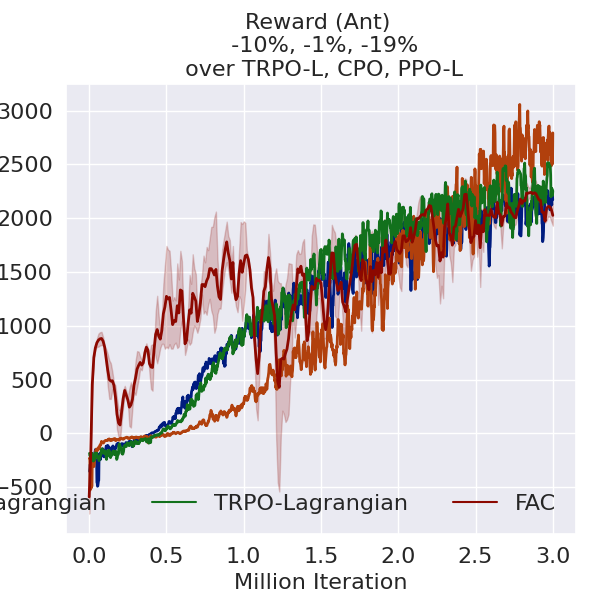
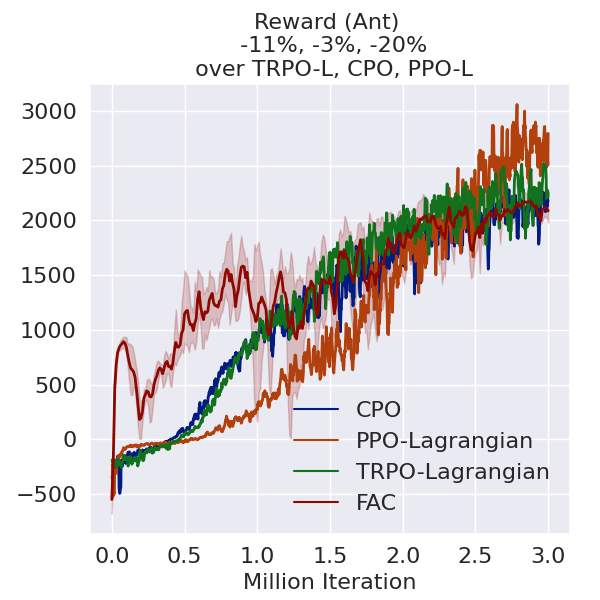
update line plot

diff --git a/data_process/lineplot_mujoco.py b/data_process/lineplot_mujoco.py
@@ -27,7 +27,7 @@ def help_func():
     tag2plot = ['episode_cost']
     alg_list = ['CPO','PPO-Lagrangian','TRPO-Lagrangian', 'FSAC',] # 'FSAC', 'CPO', 'SAC','SAC-Lagrangian',
     lbs = ['CPO','PPO-Lagrangian','TRPO-Lagrangian', 'FAC'] # 'FSAC', 'CPO', 'SAC','SAC-Lagrangian',
-    task = ['HalfCheetah']
+    task = ['Ant']
     #todo: CarGoal: sac
     #todo: CarButton: sac choose better fac
     # todo: CarPush: ???
@@ -83,6 +83,10 @@ def plot_eval_results_of_all_alg_n_runs(dirs_dict_for_plot=None):
                                     continue
                                 if dir.startswith('init100') and step > 2400000:
                                     continue
+                                if dir.startswith('init150') and step > 1500000:
+                                    continue
+                                if dir.startswith('init240') and step > 2400000:
+                                    continue
                                 for v in event.summary.value:
                                     t = tf.make_ndarray(v.tensor)
                                     for tag in tag2plot:
@@ -124,7 +128,8 @@ def plot_eval_results_of_all_alg_n_runs(dirs_dict_for_plot=None):
                         if dir in fsac_final_list:
                             final_results[alg]+= list(df_in_one_run_of_one_alg[tag2plot[0]][lendf-21: lendf-1]) # TODO: consider conti if exists
                     else:
-                        final_results[alg] += list(df_in_one_run_of_one_alg[tag2plot[0]][lendf - 21: lendf - 1])
+                        if not dir.startswith('init'):
+                            final_results[alg] += list(df_in_one_run_of_one_alg[tag2plot[0]][lendf - 21: lendf - 1])
         compare_dict = dump_results(final_results)
         total_dataframe = df_list[0].append(df_list[1:], ignore_index=True) if len(df_list) > 1 else df_list[0]
         figsize = (6,6)

diff --git a/train_scripts/test_script4fsac.py b/train_scripts/test_script4fsac.py
@@ -68,12 +68,12 @@ def built_FSAC_parser():
     mode = parser.parse_args().mode
 
     if mode == 'testing':
-        test_dir = '../results/FSAC/Walker2d/Walker2d-2021-05-15-01-03-49-s4'
+        test_dir = '../results/FSAC/Walker2d/Walker2d-2021-05-16-21-54-57-s2'
         params = json.loads(open(test_dir + '/config.json').read())
         time_now = datetime.datetime.now().strftime("%Y-%m-%d-%H-%M-%S")
         test_log_dir = params['log_dir'] + '/tester/test-{}'.format(time_now)
         params.update(dict(test_dir=test_dir,
-                           test_iter_list=[200000],
+                           test_iter_list=[600000],
                            test_log_dir=test_log_dir,
                            num_eval_episode=5,
                            num_eval_agent=1,
